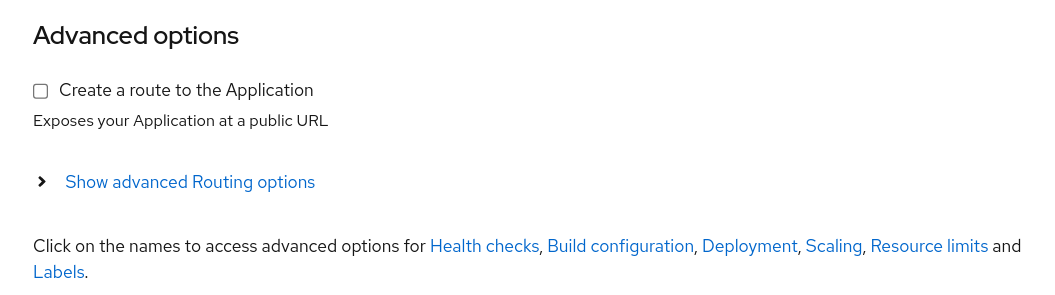
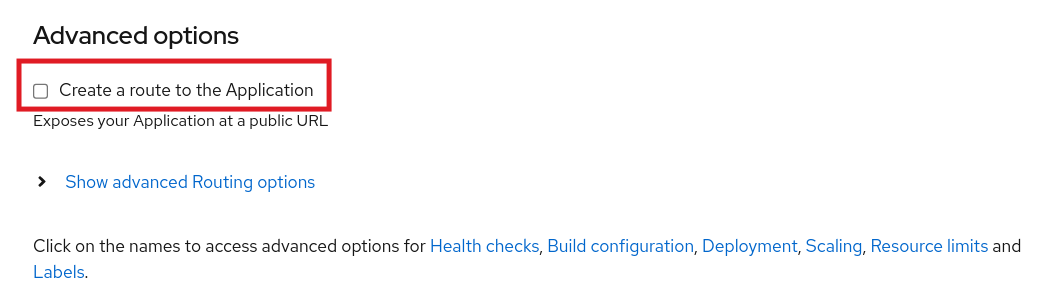
[CI] Publish Documentation for bff783e5036c789faf7141cd487d18370c94d4dc - bff783e5036c789faf7141cd487d18370c94d4dc 🚀

Changed region(s): [[0.0, 0.1831, 0.3336, 0.3966]]

diff --git a/od-workshop/3-05-kakfa-consumer.html b/od-workshop/3-05-kakfa-consumer.html
@@ -131,29 +131,211 @@
   <div class="content">
 <article class="doc">
 <h1 class="page">3.4 Create a Kafka Consumer</h1>
+<div id="preamble">
+<div class="sectionbody">
+<div class="paragraph">
+<p>In the same way we created our REST service, we can create our Kafka consumer application from git.  Then, we&#8217;ll add our Kafka connection using our secret just like we did before.</p>
+</div>
+</div>
+</div>
+<div class="sect1">
+<h2 id="_add_an_application_from_git"><a class="anchor" href="#_add_an_application_from_git"></a>Add an Application from Git</h2>
+<div class="sectionbody">
+<div class="paragraph">
+<p>Before you begin, make sure you&#8217;re in the developer view and in the right project.</p>
+</div>
+<div class="imageblock">
+<div class="content">
+<img src="_images/kafka/dev-view.png" alt="alt text">
+</div>
+</div>
+<div class="imageblock">
+<div class="content">
+<img src="_images/kafka/select-project.png" alt="alt text" width="640">
+</div>
+</div>
+<div class="ulist">
+<ul>
+<li>
+<p>From the <code>+Add</code> menu, click on the <code>From Git</code> tile:</p>
+</li>
+</ul>
+</div>
+<div class="imageblock">
+<div class="content">
+<img src="_images/kafka/from-git.png" alt="alt text" width="800">
+</div>
+</div>
+</div>
+</div>
+<div class="sect1">
+<h2 id="_configure_the_application"><a class="anchor" href="#_configure_the_application"></a>Configure the Application</h2>
+<div class="sectionbody">
+<div class="sect2">
+<h3 id="_set_the_git_repo"><a class="anchor" href="#_set_the_git_repo"></a>Set the Git Repo</h3>
+<div class="ulist">
+<ul>
+<li>
+<p><code>Git Repo URL</code>field, enter: <code>https://github.com/rh-aiservices-bu/object-detection-kafka-consumer.git</code>. Make sure you&#8217;re deploying the <code>object-detection-<strong>kafka-consumer</strong></code>. It should automatically choose the Python builder image.</p>
+</li>
+</ul>
+</div>
+<div class="listingblock lines_space console-input">
+<div class="content">
+<pre class="highlightjs highlight"><code class="language-text hljs" data-lang="text">https://github.com/rh-aiservices-bu/object-detection-kafka-consumer.git</code></pre>
+</div>
+</div>
 <div class="imageblock">
 <div class="content">
 <img src="_images/kafka/create-consumer-git.png" alt="alt text" width="800">
 </div>
+</div>
+</div>
+<div class="sect2">
+<h3 id="_set_the_app_name"><a class="anchor" href="#_set_the_app_name"></a>Set the App Name</h3>
+<div class="ulist">
+<ul>
+<li>
+<p>By default, our new deployment will be added to the existing application <code>object-detection</code> we created during our previous app.  We can leave that as is.  We can change the <strong>Name</strong> to  <code>object-detection-kafka-consumer</code> if desired. Leave the default resource as <strong>Deployment</strong>.</p>
+</li>
+</ul>
 </div>
 <div class="imageblock">
 <div class="content">
 <img src="_images/kafka/create-consumer-general.png" alt="alt text" width="800">
 </div>
 </div>
+</div>
+<div class="sect2">
+<h3 id="_remove_the_route"><a class="anchor" href="#_remove_the_route"></a>Remove the Route</h3>
+<div class="paragraph">
+<p>The Kafka consumer does not need to be exposed externally and does not serve any information.</p>
+</div>
+<div class="ulist">
+<ul>
+<li>
+<p>Under <strong>Advanced Options</strong>, uncheck <strong>Create a route to the Application</strong>.</p>
+</li>
+</ul>
+</div>
 <div class="imageblock">
 <div class="content">
 <img src="_images/kafka/create-consumer-advanced.png" alt="alt text" width="800">
 </div>
+</div>
+</div>
+<div class="sect2">
+<h3 id="_create"><a class="anchor" href="#_create"></a>Create</h3>
+<div class="ulist">
+<ul>
+<li>
+<p>Scroll down and click on <strong>Create</strong>:</p>
+</li>
+</ul>
 </div>
 <div class="imageblock">
 <div class="content">
 <img src="_images/kafka/create-button.png" alt="alt text">
 </div>
 </div>
+<div class="paragraph">
+<p>Your new Kafka consumer should be created and is currently building.</p>
+</div>
 <div class="imageblock">
 <div class="content">
 <img src="_images/kafka/create-consumer-building.png" alt="alt text" width="800">
+</div>
+</div>
+</div>
+</div>
+</div>
+<div class="sect1">
+<h2 id="_add_the_secret_to_the_kafka_consumer"><a class="anchor" href="#_add_the_secret_to_the_kafka_consumer"></a>Add the Secret to the Kafka Consumer</h2>
+<div class="sectionbody">
+<div class="paragraph">
+<p>While the application is building, we can add the secret to the deployment. Then it can connect to the Kafka instance and topic and process messages.</p>
+</div>
+<div class="ulist">
+<ul>
+<li>
+<p>Navigate to Secrets</p>
+</li>
+<li>
+<p>Find and Select the secret with your Kafka connection information.</p>
+</li>
+</ul>
+</div>
+<div class="imageblock">
+<div class="content">
+<img src="_images/kafka/secret-select.png" alt="alt text" width="800">
+</div>
+</div>
+<div class="ulist">
+<ul>
+<li>
+<p>Click <strong>Add Secret to workload</strong></p>
+</li>
+<li>
+<p>Select <strong>object-detection-app</strong> deployment as the workload.</p>
+</li>
+<li>
+<p>Click <strong>Save</strong></p>
+</li>
+</ul>
+</div>
+<div class="imageblock">
+<div class="content">
+<img src="_images/kafka/secret-add-to-consumer.png" alt="alt text" width="800">
+</div>
+</div>
+<div class="paragraph">
+<p>You&#8217;ll be redirected to your application.  It will redeploy a new pod to pick up the changes.  You can examine the <strong>Environment</strong> tab to confirm it was added.</p>
+</div>
+</div>
+</div>
+<div class="sect1">
+<h2 id="_testing_your_streaming_application"><a class="anchor" href="#_testing_your_streaming_application"></a>Testing your Streaming Application</h2>
+<div class="sectionbody">
+<div class="paragraph">
+<p>Once the application is built and the front-end application and kafka consumer are sending and receiving messages, you can test out your application.</p>
+</div>
+<div class="ulist">
+<ul>
+<li>
+<p>Navigate to the <strong>Topology</strong> for your project.</p>
+</li>
+<li>
+<p>Select your front-end application deployment</p>
+</li>
+<li>
+<p>Click on the <strong>Route</strong> at the bottom of the detail page</p>
+</li>
+</ul>
+</div>
+<div class="imageblock">
+<div class="content">
+<img src="_images/kafka/topology-final.png" alt="alt text" width="800">
+</div>
+</div>
+<div class="ulist">
+<ul>
+<li>
+<p>Select the video icon on the application.</p>
+</li>
+</ul>
+</div>
+<div class="imageblock">
+<div class="content">
+<img src="_images/kafka/app-screenshot-2.png" alt="alt text" width="360">
+</div>
+</div>
+<div class="ulist">
+<ul>
+<li>
+<p>Try it out!</p>
+</li>
+</ul>
+</div>
 </div>
 </div>
 <nav class="pagination">

diff --git a/od-workshop/3-04-create-secret.html b/od-workshop/3-04-create-secret.html
@@ -218,13 +218,13 @@ stringData:
 <div class="ulist">
 <ul>
 <li>
-<p><code>KAFKA_BOOTSTRAP_SERVER</code> location of the Kafka bootstrap Server.  e.g. 'abc.xyz.kafka.rhcloud.com:443'</p>
+<p><code>KAFKA_BOOTSTRAP_SERVER</code> location of the Kafka bootstrap Server.  e.g. "abc.xyz.kafka.rhcloud.com:443"</p>
 </li>
 <li>
-<p><code>KAFKA_USERNAME</code>  Client ID of the Service Account you created e.g. 'srvc-acct-1234-5678-abcd-efgj-12345678abcd'</p>
+<p><code>KAFKA_USERNAME</code>  Client ID of the Service Account you created e.g. "srvc-acct-1234-5678-abcd-efgj-12345678abcd"</p>
 </li>
 <li>
-<p><code>KAFKA_PASSWORD</code> Client secret of the Service Account you created. e.g. 'abcd1234-5678-abcd-efgj-12345678abcd'</p>
+<p><code>KAFKA_PASSWORD</code> Client secret of the Service Account you created. e.g. "abcd1234-5678-abcd-efgj-12345678abcd"</p>
 </li>
 </ul>
 </div>
@@ -306,7 +306,7 @@ stringData:
 </div>
 </div>
 <div class="paragraph">
-<p>Now that the fronte-end application can connect to Kafka, let&#8217;s create and connect a consumer in <a href="3-05-kakfa-consumer.html" class="page">the next section.</a></p>
+<p>Now that the front-end application can connect to Kafka, let&#8217;s create and connect a consumer in <a href="3-05-kakfa-consumer.html" class="page">the next section.</a></p>
 </div>
 </div>
 </div>

diff --git a/od-workshop/2-01-deploy-s2i.html b/od-workshop/2-01-deploy-s2i.html
@@ -245,7 +245,7 @@
 <div class="ulist">
 <ul>
 <li>
-<p>If you continue to scroll down, you will see that everything is automatically selected to create a deployment of your application, and to create a Route through which you will be able to access it. Everything is ready, so you can click on <code>Create</code>:</p>
+<p>If you continue to scroll down, you will see that everything is automatically selected to create a deployment of your application, and to create a Route through which you will be able to access it. Everything is ready, so you can click on <strong>Create</strong>:</p>
 </li>
 </ul>
 </div>

diff --git a/od-workshop/2-03-calling-from-application.html b/od-workshop/2-03-calling-from-application.html
@@ -377,7 +377,7 @@ If you named the rest services <code>object-detection-rest</code>, this value sh
 <div class="ulist">
 <ul>
 <li>
-<p>If you continue to scroll down, you will see that everything is automatically selected to create a deployment of your application, and to create a Route through which you will be able to access it. Everything is ready, so you can click on <code>Create</code>:</p>
+<p>Scroll down and click on <strong>Create</strong>:</p>
 </li>
 </ul>
 </div>
